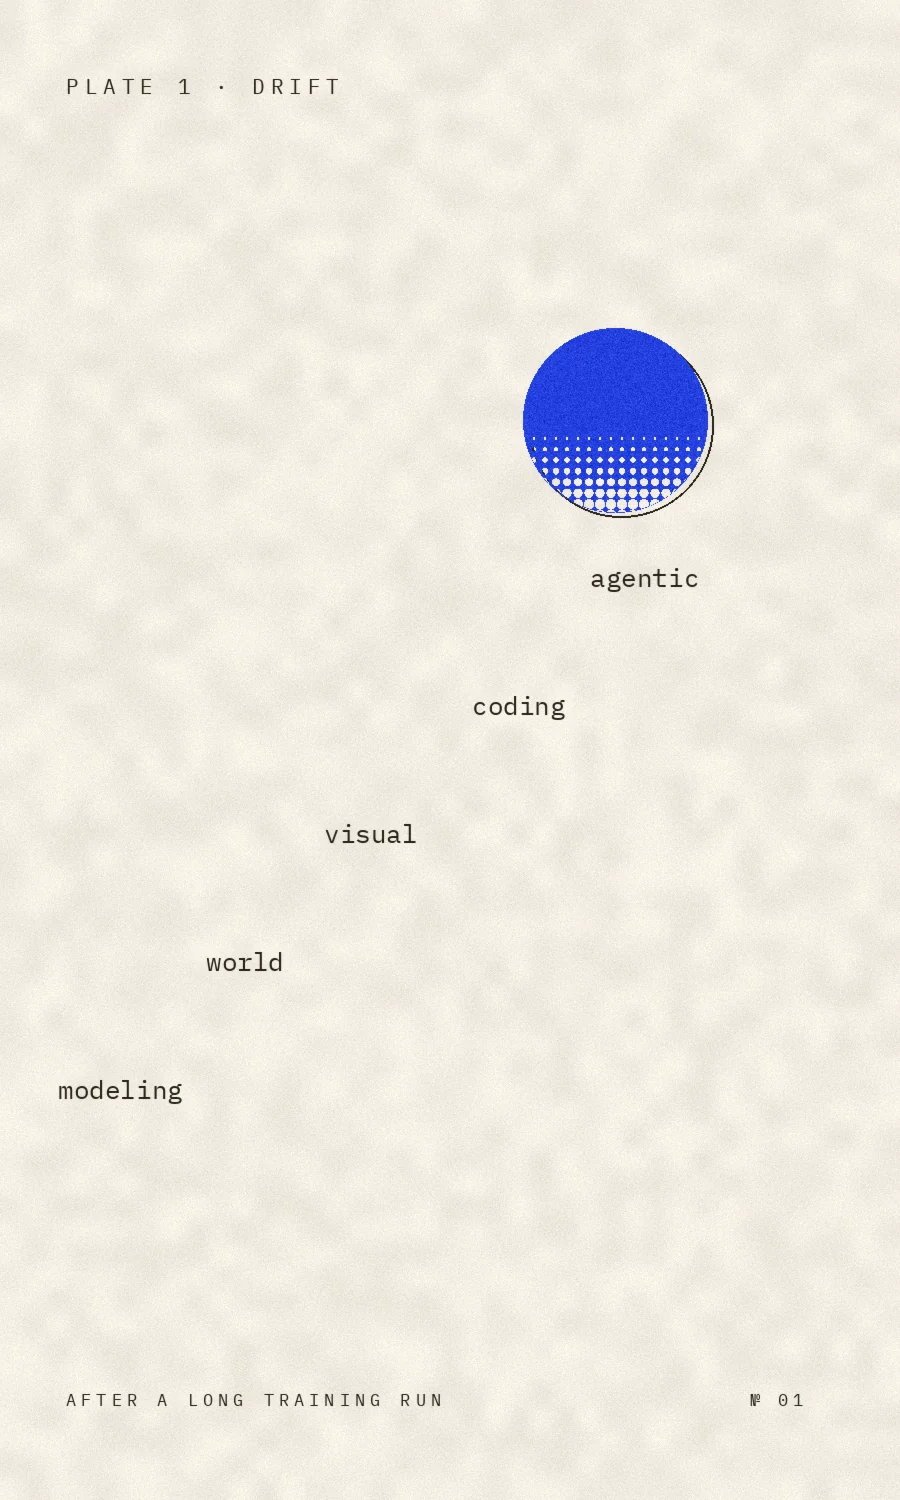
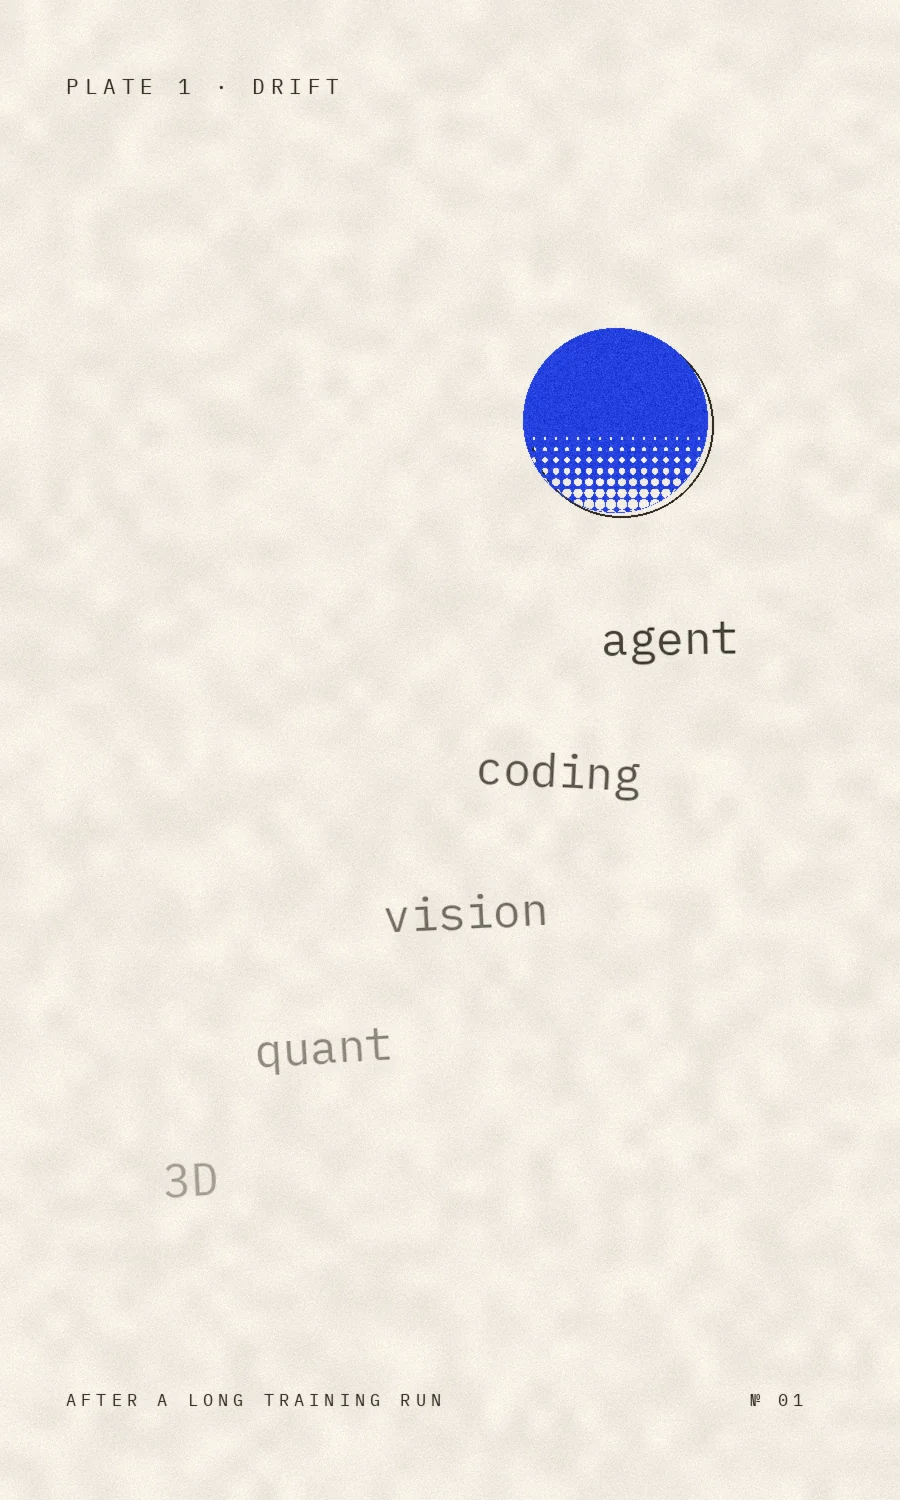
Rework drift plate with ascending keywords and refine portrait

diff --git a/index.html b/index.html
@@ -43,7 +43,7 @@
       <figure class="portrait">
         <div class="frame">
           <span class="block" aria-hidden="true"></span>
-          <img src="assets/img/portrait-cobalt.webp" alt="Screenprint-style portrait of Yean Cheng in cobalt and black ink on paper" width="444" height="617">
+          <img src="assets/img/portrait-cobalt.webp" alt="Screenprint-style portrait of Yean Cheng in cobalt and black ink on paper" width="420" height="585">
         </div>
         <figcaption>fig.&nbsp;0&nbsp;—&nbsp;the author, printed in two inks</figcaption>
       </figure>

diff --git a/tools/gen_artwork.py b/tools/gen_artwork.py
@@ -116,15 +116,18 @@ def plate_drift():
     d.ellipse([cx - r + 6, cy - r + 5, cx + r + 6, cy + r + 5], outline=INK + (100,), width=2)
     im.alpha_composite(cobalt_disc(W, r, seed=6), (cx - W // 2, cy - W // 2))
 
-    # words drifting down-left, fading out
-    words = ["agentic", "coding", "visual", "world", "modeling"]
-    f = ImageFont.truetype(MONO, 26)
-    x, y = 590.0, 560.0
+    # words rising from the bottom, gathering into the cobalt disc
+    words = ["3D", "quant", "vision", "coding", "agent"]
+    f = ImageFont.truetype(MONO, 46)
+    x, y = 150.0, 1120.0
     for i, w in enumerate(words):
-        alpha = 170 - i * 26
-        d.text((x, y), w, font=f, fill=INK + (max(alpha, 40),))
-        x -= 118 + (i % 2) * 30
-        y += 128
+        alpha = min(95 + i * 30, 220)  # darker as they rise
+        layer = Image.new("RGBA", (380, 100), (0, 0, 0, 0))
+        ImageDraw.Draw(layer).text((10, 10), w, font=f, fill=INK + (alpha,))
+        layer = layer.rotate(random.uniform(-3.5, 3.5), expand=True, resample=Image.BICUBIC)
+        im.alpha_composite(layer, (int(x), int(y)))
+        x += 92 + (i % 2) * 36
+        y -= 132
 
     f_l = ImageFont.truetype(MONO, 21)
     f_s = ImageFont.truetype(MONO, 17)
@@ -165,7 +168,9 @@ def portrait_cobalt():
     src = Image.open("assets/img/profile.webp").convert("L")
     w0, h0 = src.size
     # crop to head & shoulders so the subject fills the frame
-    src = src.crop((int(w0 * 0.14), int(h0 * 0.08), int(w0 * 0.88), int(h0 * 0.86)))
+    src = src.crop((int(w0 * 0.16), int(h0 * 0.10), int(w0 * 0.86), int(h0 * 0.84)))
+    # supersample: render at 2x, downscale at the end for smooth print edges
+    src = src.resize((src.width * 2, src.height * 2), Image.LANCZOS)
     w, h = src.size
     px = np.asarray(src, dtype=np.float32) / 255.0
     px = np.clip(px**0.45, 0, 1)  # strong lift for the low-key photo
@@ -201,9 +206,10 @@ def portrait_cobalt():
     out = out * (1 - ea[..., None]) + ink_arr[None, None, :] * ea[..., None]
 
     img = Image.fromarray(np.clip(out, 0, 255).astype(np.uint8), "RGB")
+    img = img.resize((w // 2, h // 2), Image.LANCZOS)  # downscale from supersample
 
     img = add_grain(img, sigma=3.2, seed=2).convert("RGBA")
-    img.putalpha(torn_edge_mask(w, h))
+    img.putalpha(torn_edge_mask(w // 2, h // 2))
     img.save("assets/img/portrait-cobalt.webp", "WEBP", quality=88, method=6)
 
 
